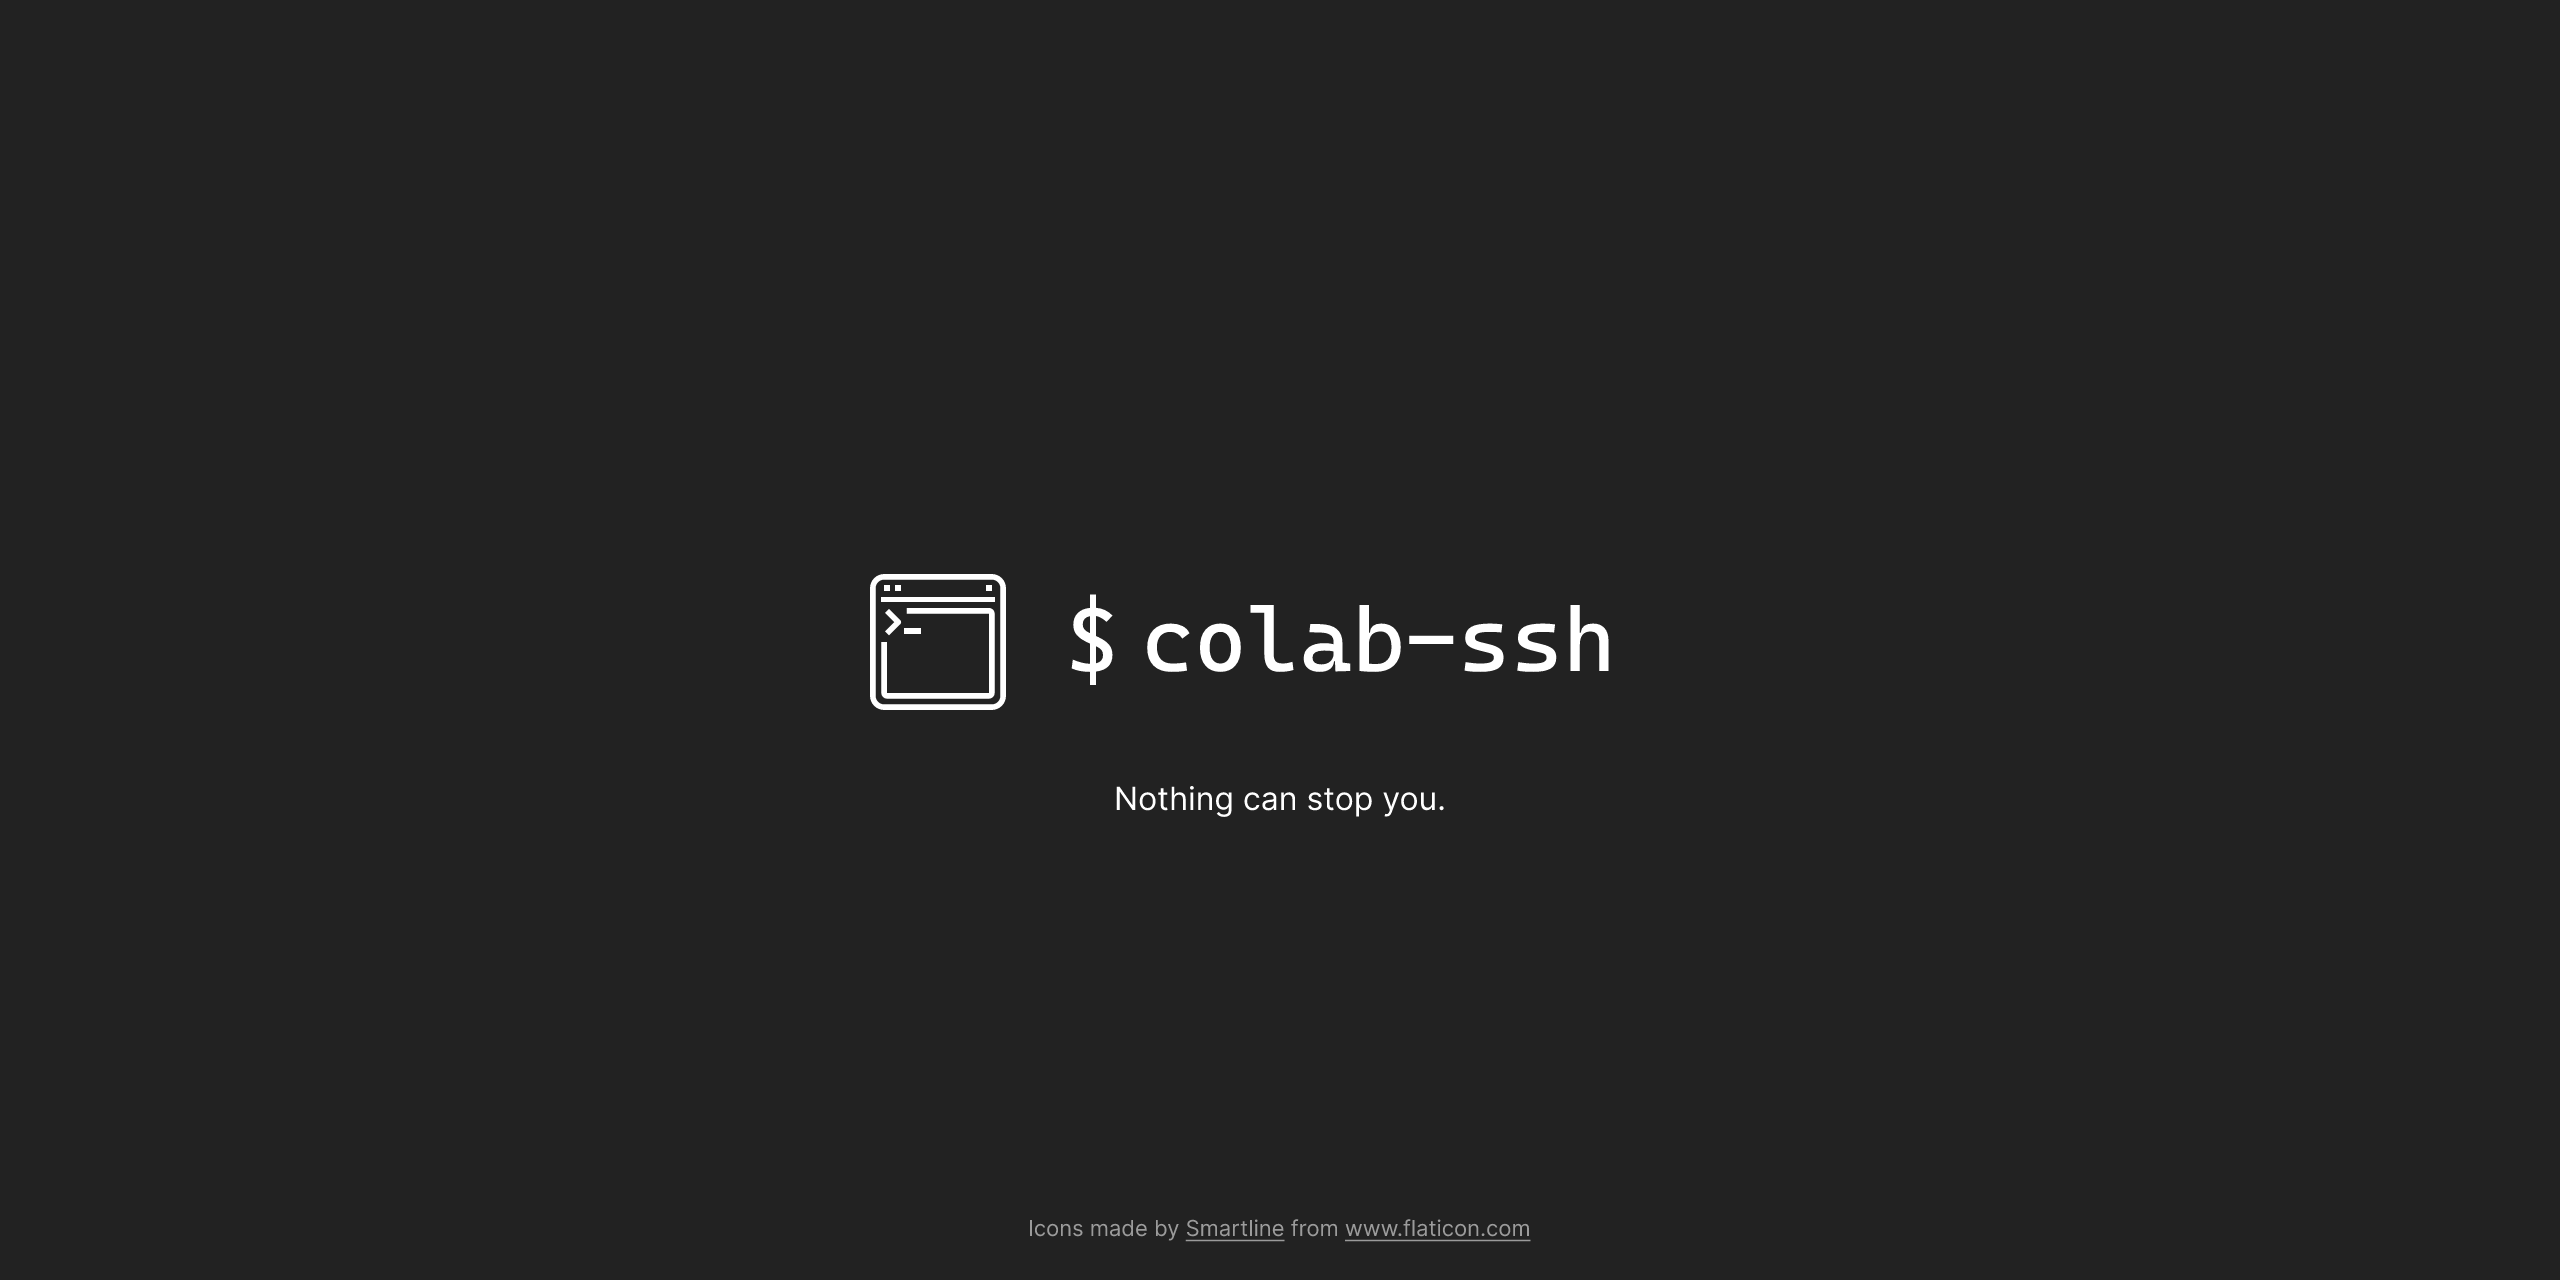
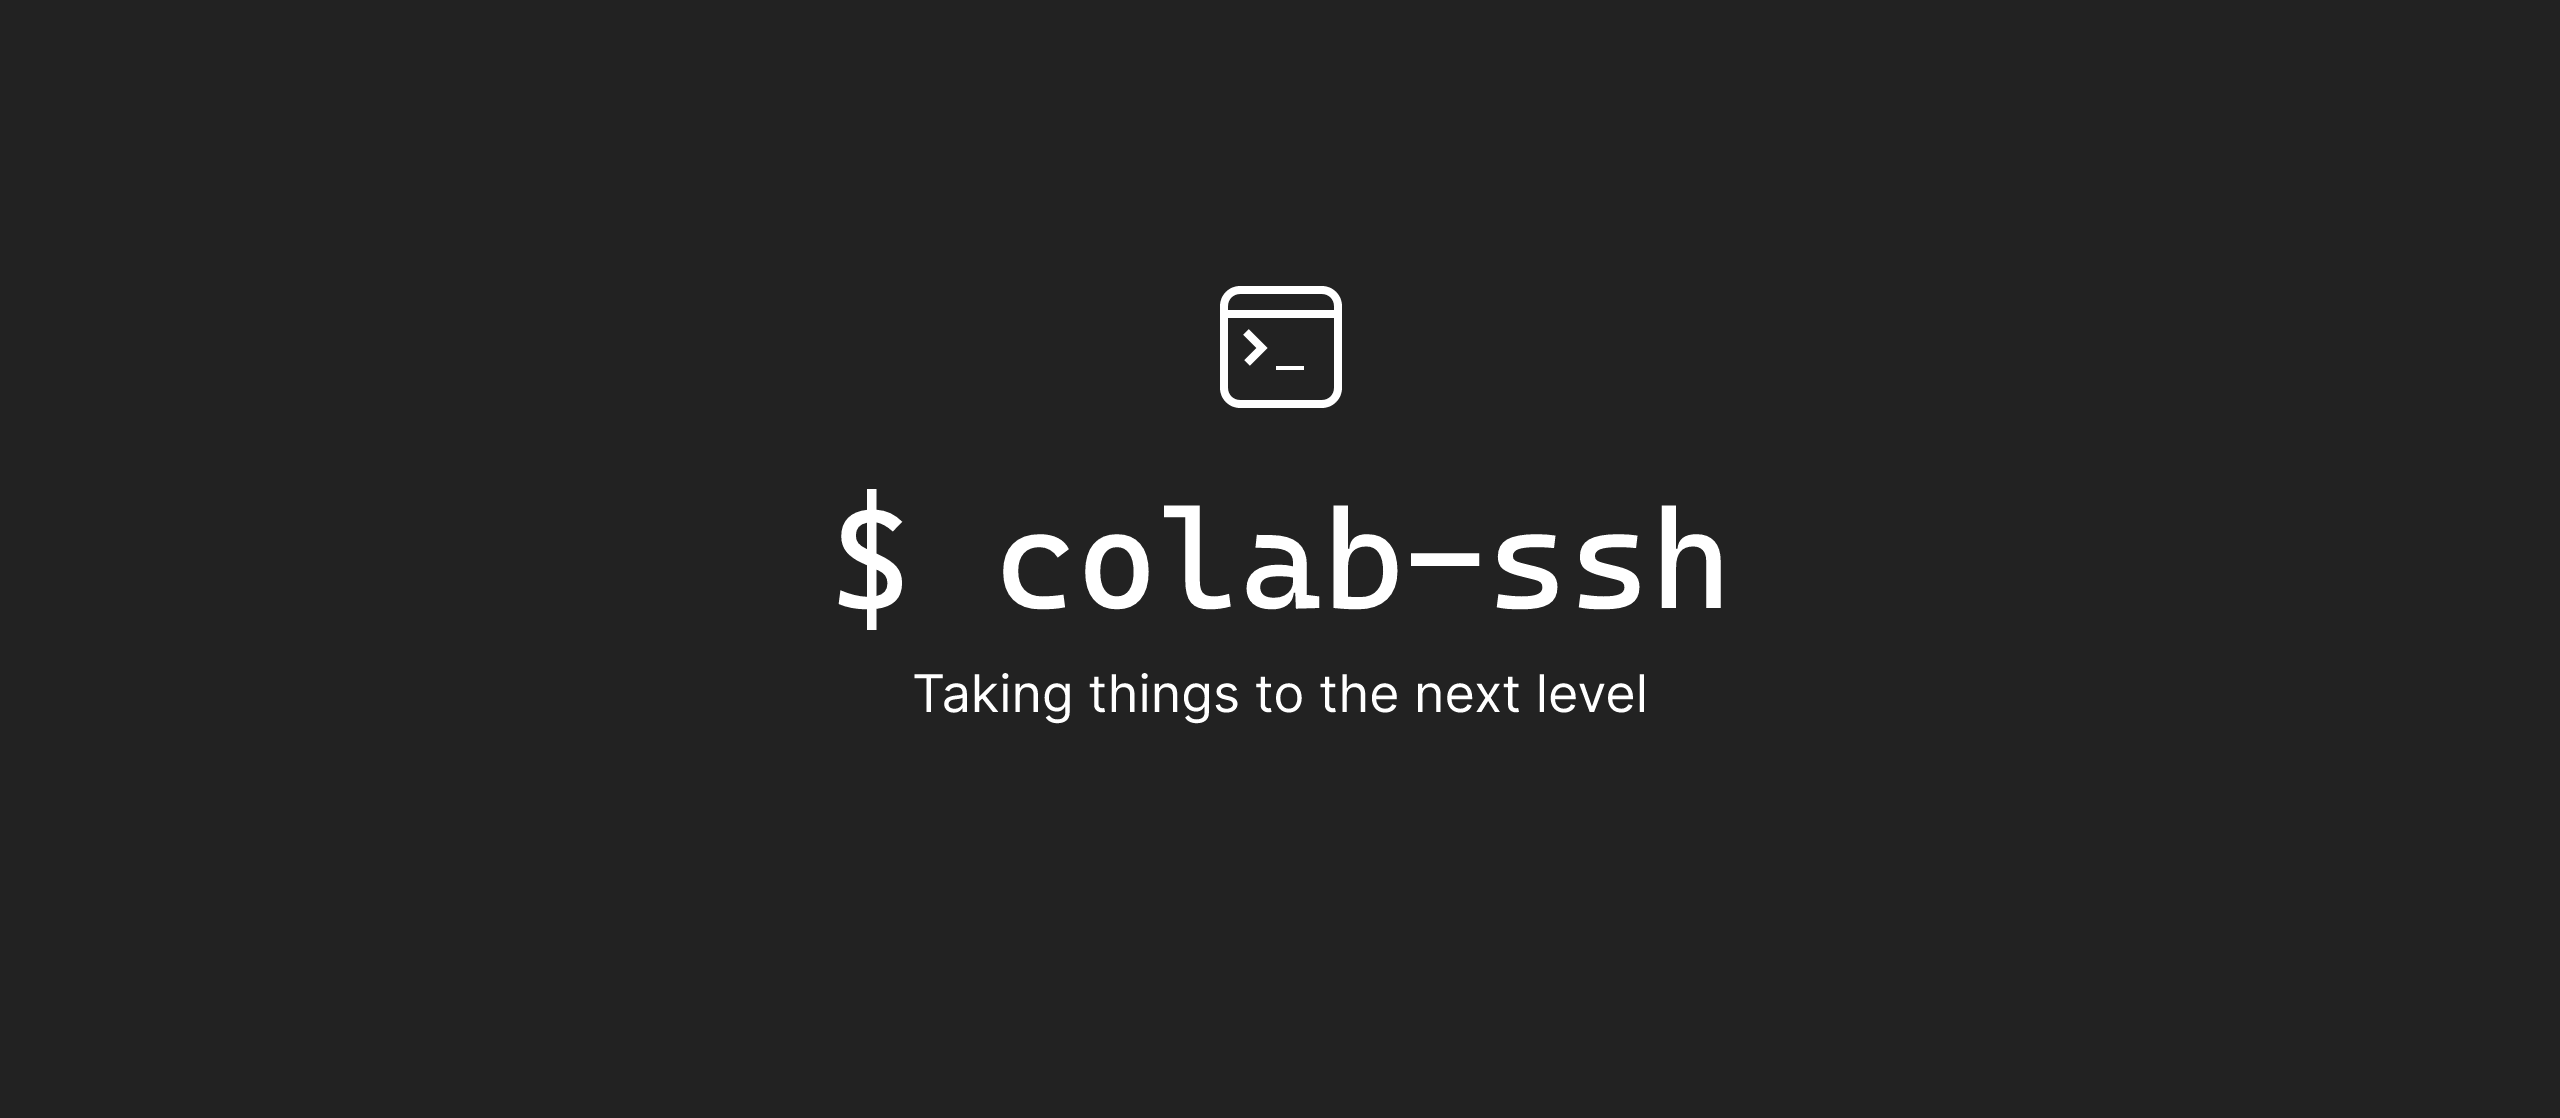
Modify the cover and clean up the documentation

diff --git a/README.md b/README.md
@@ -1,10 +1,9 @@
 ![Cover photo of Colab-ssh](docs/assets/cover.png)
 
+> 🎉 Happy to announce that we now support VSCode direct links when you use `init_git`
 
 # Colab-ssh
 #### Connect to Google colab via ssh easily
-
-> 🎉 Happy to announce that we now support VSCode direct links when you use `init_git`
 
 ## What is Colab-ssh
 Colab-ssh is a light-weight library that enables you to connect to a Google Colab virtual machine using an SSH tunnel.
@@ -97,29 +96,9 @@ Host google_colab_ssh
 Then connect to the remote `google_colab_ssh`.
 ### Other useful documentation
 - [Exposing a Google Colab environment variable](docs/expose-env-variable.md)
+
 ## API Reference
-
-### `launch_ssh` function
-This function accepts the following parameters
-|Parameter|Type|Required|Default value|Description|
-|-|-|-|-|-|
-|`token`|string|:heavy_check_mark:|-|Your ngrok token|
-|`password`|string|-|None|The SSH password you want to set, if empty no password will be set. Usually you don't need passwords when you already have an [ssh key setup](#avoiding-passwords)|
-|`verbose`|boolean|-|False|Show more information under the hood|
-|`region`|string|-|`us`|The region you want to setup for ngrok. This can be one of the following: `us`, `eu`, `au`, `ap`, `sa`, `jp`, `in`. See the [official Ngrok documenation](https://ngrok.com/docs#config-options) for more information.|
-|~~`publish`~~|-|-|-|Deprecated|
-
-### `init_git` function
-`init_git` allows you to clone a repository (private or public) and sets up the right remote URL without the need for authentication every time you open the notebook, this is achieved by setting your github personal token.
-
-This function accepts the following parameters
-|Parameter|Type|Required|Default value|Description|
-|-|-|-|-|-|
-|repositoryUrl|string|:heavy_check_mark:|-|Your repository URL|
-|branch|string|-|`master`|The branch that you want to checkout|
-|personal_token|string|Only if you want to clone a private repo or commit to your own repository|-|Your github personal token|
-|email|string|Highly recommended if you are going to commit to the repo|-|Your github email. This will automatically set the `git config --global user.email` for you|
-|username|string|Highly recommended if you are going to commit to the repo|-|Your github username. This will automatically set the `git config --global user.name` for you|
+Check the API reference in this [page](docs/api-reference.md).
 
 # Contribution
 Start by opening an issue then we can discuss it, we are open for ideas. About the source code documentation, try to discover things yourself for now.

diff --git a/docs/api-reference.md b/docs/api-reference.md
@@ -1,0 +1,24 @@
+# API reference
+
+
+### `launch_ssh` function
+This function accepts the following parameters
+|Parameter|Type|Required|Default value|Description|
+|-|-|-|-|-|
+|`token`|string|:heavy_check_mark:|-|Your ngrok token|
+|`password`|string|-|None|The SSH password you want to set, if empty no password will be set. Usually you don't need passwords when you already have an [ssh key setup](#avoiding-passwords)|
+|`verbose`|boolean|-|False|Show more information under the hood|
+|`region`|string|-|`us`|The region you want to setup for ngrok. This can be one of the following: `us`, `eu`, `au`, `ap`, `sa`, `jp`, `in`. See the [official Ngrok documenation](https://ngrok.com/docs#config-options) for more information.|
+|~~`publish`~~|-|-|-|Deprecated|
+
+### `init_git` function
+`init_git` allows you to clone a repository (private or public) and sets up the right remote URL without the need for authentication every time you open the notebook, this is achieved by setting your github personal token.
+
+This function accepts the following parameters
+|Parameter|Type|Required|Default value|Description|
+|-|-|-|-|-|
+|repositoryUrl|string|:heavy_check_mark:|-|Your repository URL|
+|branch|string|-|`master`|The branch that you want to checkout|
+|personal_token|string|Only if you want to clone a private repo or commit to your own repository|-|Your github personal token|
+|email|string|Highly recommended if you are going to commit to the repo|-|Your github email. This will automatically set the `git config --global user.email` for you|
+|username|string|Highly recommended if you are going to commit to the repo|-|Your github username. This will automatically set the `git config --global user.name` for you|
